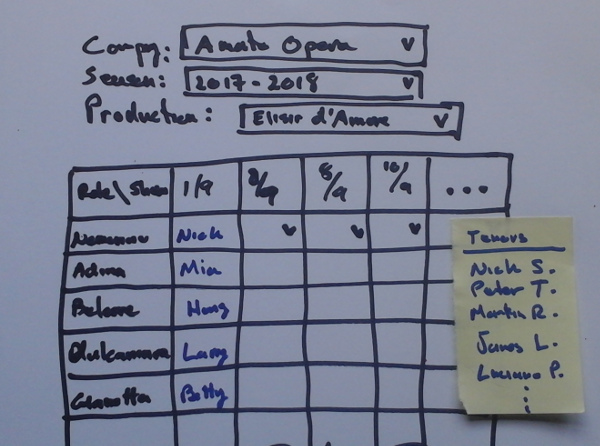
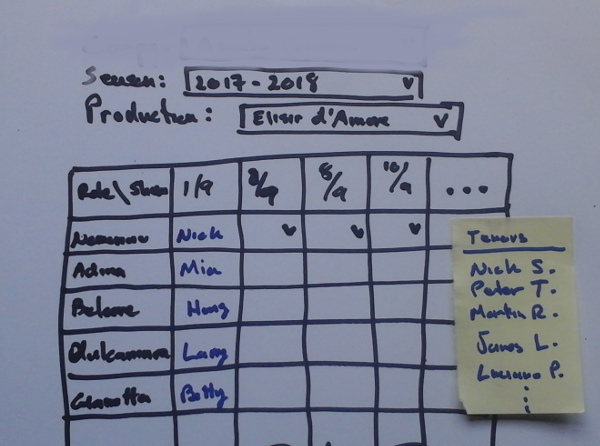
Updated readme (and rough sketch.)

Changed region(s): [[0.12, 0.0291, 0.72, 0.204]]

diff --git a/README.md b/README.md
@@ -30,7 +30,7 @@ Since then I've done a good bit of work with Python ORMs and web framworks (pylo
 Concepts and General Structure
 -------------------------------
 
-The project consists of several django apps: *people, library, talent, schedule,* and *company.
+The project consists of several django apps: *people, library, talent,* and *schedule*.
 
 ### People and Library
 
@@ -45,9 +45,10 @@ Instead of having subclasses for different kinds of artists, I took a page from 
 The schedule is where these all come together to form casts for
 ``Show`` instances, which are contained in ``Production`` instances.
 
-### Company and Season
+### Season
 
-I thought I might perhaps turn this into a website that many companies could use, each having their own libraries, artists, and schedule.   The ``Company`` model exists to contain schedules, as well as hold information that pertains to the company as a whole, such as the names of the artistic director, general manager, board, and the roster(s) of artists, staff, and crew.
+I thought I might perhaps turn this into a website that many companies could use, each having their own libraries, artists, and schedule.  I have since decided that it is far
+easier to simply run multiple sites -- perhaps hosted on the same machine -- rather than try to reinvent the wheel and manage what are effectively separate sites from within this system.
 
 Companies organise groups of productions into *Season*s, which may or may not coincide with calendar time periods such as years or actual season (e.g. Spring).  Most companies in the US run regular seasons from September through June, say, consisting of several productions, each putting up 1 or more performances. There might also be a Summer season during which the company may take some of its repetoire on tour.  Companies in Australia, on the other hand, may have several seasons during the year, each of which including some number of perfomances of just one production.
 
